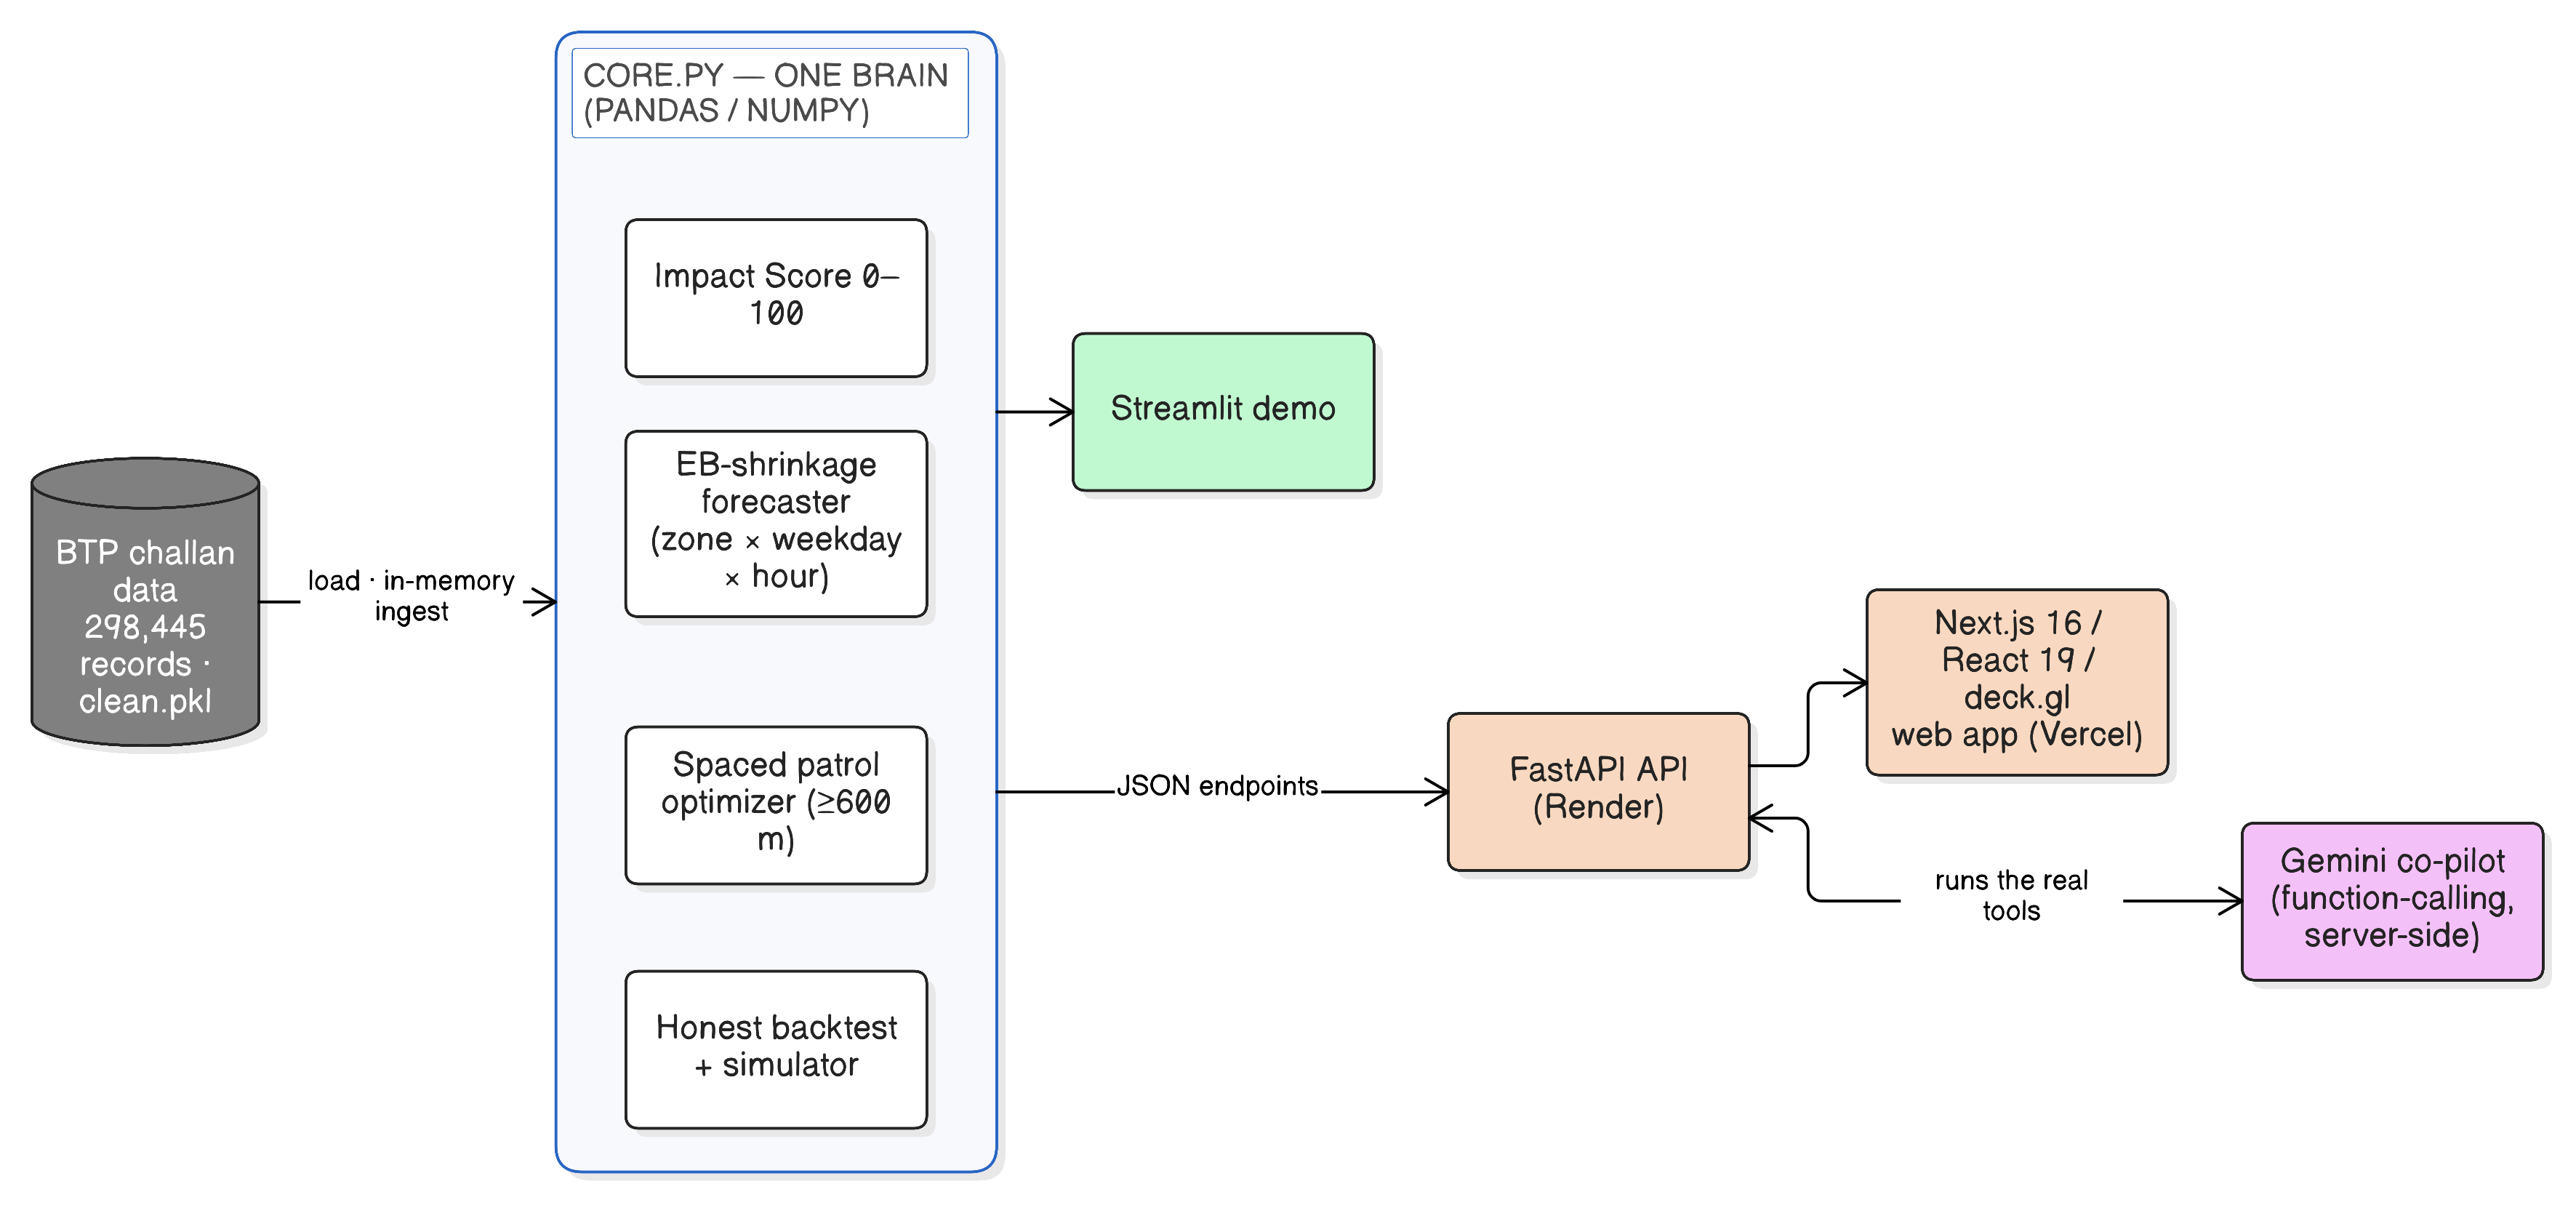
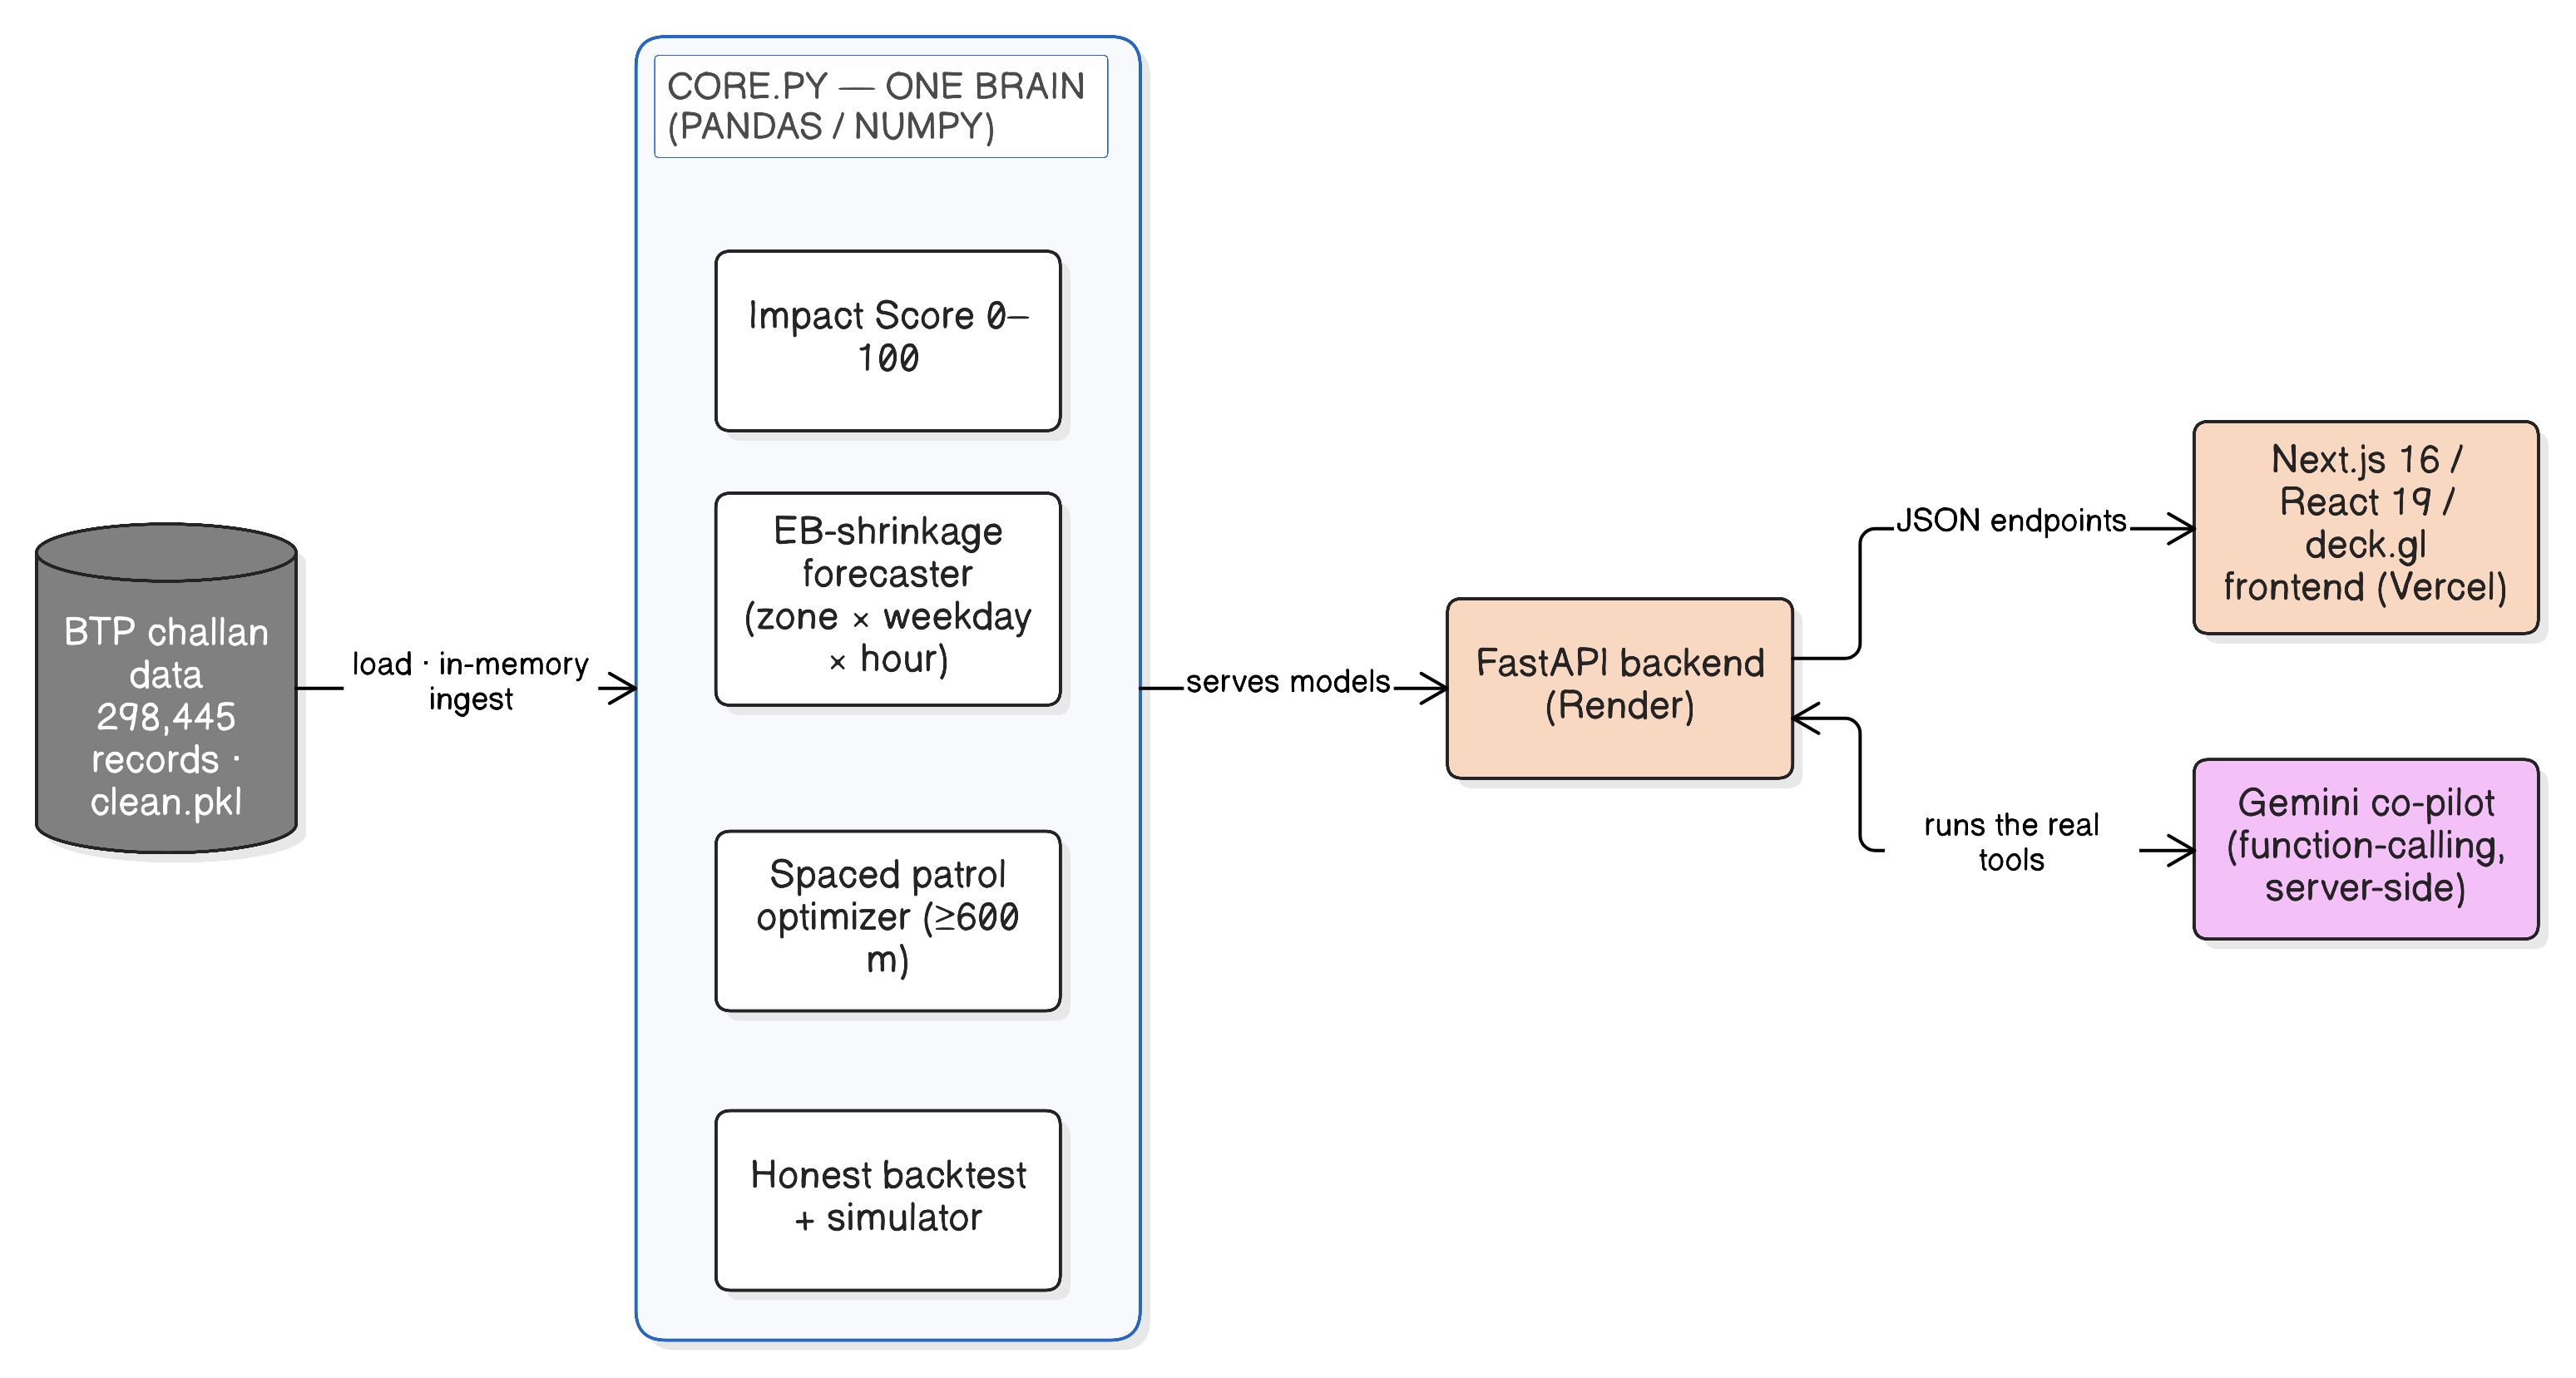
Pitch: main app = Next.js (Vercel) + FastAPI (Render); drop Streamlit
Reposition the architecture/links across all decks (PITCH_DECK, SUBMISSION_DECK,
GAMMA_DECK, DECK_FOR_AI, both pptx builders) so the product is presented as the
full-stack Next.js 16/React 19/deck.gl frontend on Vercel + FastAPI backend on
Render sharing app/core.py — no more Streamlit. Updated the Eraser architecture
diagram (removed the Streamlit node) and regenerated both PPTX + the diagram PNGs.

Claude-Session: https://claude.ai/code/session_01Xr9DYnKWkghcBQLrU88Njx

diff --git a/pitch/build_pptx.py b/pitch/build_pptx.py
@@ -142,9 +142,9 @@ content_slide("By design · Integrity", "Live, explainable & self-improving", [
     "Data flywheel: a live ingest endpoint cleans new challans + rebuilds models in seconds; officers log real outcomes.",
     "Integrity: we never modify the fixed dataset — ingest is live-data architecture, outcome logs in-memory only."])
 # 12
-content_slide("Architecture & tech · Technical", "Two front-ends, one brain — small, fast, explainable", [
+content_slide("Architecture & tech · Technical", "One engine, two services — small, fast, explainable", [
     "One engine (core.py, pandas/numpy): EB-shrinkage forecaster · impact score · spaced greedy optimizer · honest backtest · simulator.",
-    "Two apps share it: a live Streamlit demo + full-stack FastAPI (Render) & Next.js 16 / React 19 / deck.gl (Vercel).",
+    "The product: Next.js 16 / React 19 / deck.gl frontend (Vercel) + FastAPI backend (Render) — both call the one engine.",
     "Gemini co-pilot runs server-side over the real models — no GPU, no training pipeline to babysit, no black box."])
 # 13
 content_slide("Feasibility · rollout", "Deployable today — on data BTP already collects", [
@@ -159,7 +159,7 @@ content_slide("Close", "Why ParkPulse wins", [
     "Innovative — a closed decision loop + an agentic voice co-pilot + transparency both ways.",
     "Real impact — a plan you brief tomorrow, a 38% validated efficiency gain, offender targeting.",
     "Turning what already happened into where to stand tomorrow."],
-    footer="Live demo: flipkart-gridlock-20-r2-rinxb9yibzp8knp6quhfew.streamlit.app")
+    footer="Live app: Next.js on Vercel + FastAPI on Render  ·  [Vercel URL]")
 
 out = Path(__file__).resolve().parent / "ParkPulse_Deck.pptx"
 prs.save(str(out))

diff --git a/pitch/SUBMISSION_DECK.md b/pitch/SUBMISSION_DECK.md
@@ -80,16 +80,15 @@
 ---
 
 ## Slide 6 — Proposed Solution, Part 2: Architecture & Tech Stack  *(Technical)*
-**Two front-ends, one brain — small, fast, auditable, no GPU.**
+**One engine, two services — small, fast, auditable, no GPU.**
 - **One engine** (`core.py`, pure pandas/numpy): the impact score, the EB-shrinkage forecaster, the spaced greedy
   optimizer, an honest time-split backtest, and a counterfactual deployment simulator.
-- **Two apps share that brain:**
-  - a live **Streamlit** demo, and
-  - a full-stack product — **FastAPI** API (Render) + **Next.js 16 / React 19 / deck.gl** UI (Vercel).
+- **The product:** a **Next.js 16 / React 19 / deck.gl** frontend on **Vercel**, talking to a **FastAPI** backend on
+  **Render** — both calling the one engine.
 - **AI co-pilot:** **Google Gemini** *automatic function-calling* runs the real tools server-side; the key never leaves
   the server. No training pipeline, no IoT hardware, no black box — the whole model rebuilds in seconds.
 
-**On screen:** data-flow diagram — Data → core.py (one brain) → Streamlit + FastAPI/Next.js + Gemini co-pilot.
+**On screen:** data-flow diagram — Data → core.py (one brain) → FastAPI (Render) → Next.js (Vercel) + Gemini co-pilot.
 
 ---
 
@@ -140,8 +139,8 @@
 
 ## Slide 10 — Supporting Links & Documentation  *(Completeness)*
 **Everything to verify it runs — code, demo, instructions.**
-- **Live demo (Streamlit):** https://flipkart-gridlock-20-r2-rinxb9yibzp8knp6quhfew.streamlit.app
-- **Full-stack web app:** `[Vercel URL]`  ·  **API:** `[Render URL]/health`
+- **Live web app (Next.js · Vercel):** `[Vercel URL]`
+- **Backend API (FastAPI · Render):** `[Render URL]/health`
 - **Code repository:** `[GitHub repo URL]`
 - **Demo video:** `[link — short walkthrough; no length limit this year, ~3–5 min recommended]`
 - **Run it yourself (full-stack):**

diff --git a/pitch/PITCH_DECK.md b/pitch/PITCH_DECK.md
@@ -7,8 +7,8 @@
 > conclusion, the bullets carry the full point, and one "On screen" line names the proof. Each slide is tagged with the
 > **judging criterion** it earns (Feasibility · Relevance · Innovation · Real-world impact · plus Technical & Design).
 
-- **Live demo (Streamlit):** https://flipkart-gridlock-20-r2-rinxb9yibzp8knp6quhfew.streamlit.app
-- **Full-stack product:** FastAPI (Render) + Next.js/React/deck.gl (Vercel) — same engine, polished UI + AI co-pilot.
+- **Live web app:** Next.js / React / deck.gl on **Vercel** (frontend) + **FastAPI** on **Render** (backend): `[Vercel URL]`.
+- **One engine:** both call the shared `app/core.py`; the Gemini co-pilot runs server-side.
 - **Generated PPTX:** `pitch/ParkPulse_Deck.pptx` (regenerate via `python pitch/build_pptx.py`).
 - **Numbers that must stay exact:** 298,445 records · 151 days · 802 zones · r = 0.70 (MAE 2.01) ·
   **38% vs 1.3%** on 31 held-out days · top 1% of cells = 33% · 15% of vehicles = 34% · 93% before 1 PM / <0.3% in the 5–9 PM peak.
@@ -152,14 +152,14 @@
 ---
 
 ## Slide 12 — Architecture & tech  *(Technical)*
-**Two front-ends, one brain — small, fast, explainable.**
+**One engine, two services — small, fast, explainable.**
 - **One engine** (`core.py`, pure pandas/numpy): EB-shrinkage forecaster · transparent impact score · greedy
   maximum-coverage optimizer with a minimum-spacing constraint · honest time-split backtest · counterfactual simulator.
-- **Two apps share it:** a live **Streamlit** demo, and a full-stack product — **FastAPI** API (Render) + **Next.js 16 /
-  React 19 / deck.gl** UI (Vercel) — plus the **Gemini** co-pilot, server-side.
+- **The product:** a **Next.js 16 / React 19 / deck.gl** frontend (Vercel) + a **FastAPI** backend (Render) — both
+  calling the one engine — plus the **Gemini** co-pilot, server-side.
 - **No training pipeline to babysit, no GPU, no black box** — the whole model is auditable and rebuilds in seconds.
 
-**On screen:** one-line architecture: Data → core.py (one brain) → Streamlit + FastAPI/Next.js + Gemini co-pilot.
+**On screen:** one-line architecture: Data → core.py (one brain) → FastAPI (Render) → Next.js (Vercel) + Gemini co-pilot.
 
 ---
 

diff --git a/pitch/GAMMA_DECK.md b/pitch/GAMMA_DECK.md
@@ -93,9 +93,9 @@ Theme 1 — Poor Visibility on Parking-Induced Congestion · Gridlock Hackathon 
 
 ---
 
-# Architecture & tech — two front-ends, one brain  ·  Technical
+# Architecture & tech — one engine, two services  ·  Technical
 - **One engine** (`core.py`, pandas/numpy): EB-shrinkage forecaster · impact score · spaced greedy optimizer · honest backtest · counterfactual simulator.
-- **Two apps share it:** a live **Streamlit** demo + a full-stack **FastAPI** (Render) & **Next.js 16 / React 19 / deck.gl** (Vercel) product.
+- **The product:** a **Next.js 16 / React 19 / deck.gl** frontend on **Vercel** + a **FastAPI** backend on **Render** — both call the one engine.
 - **Gemini co-pilot** runs server-side over the real models — **no GPU, no training pipeline, no black box.**
 
 ---
@@ -117,5 +117,5 @@ Theme 1 — Poor Visibility on Parking-Induced Congestion · Gridlock Hackathon 
 
 # ParkPulse
 ### Turning "what already happened" into "where to stand tomorrow."
-Live demo: https://flipkart-gridlock-20-r2-rinxb9yibzp8knp6quhfew.streamlit.app
+Live app (Next.js · Vercel) + API (FastAPI · Render): [Vercel URL]
 TeamX · Thank you